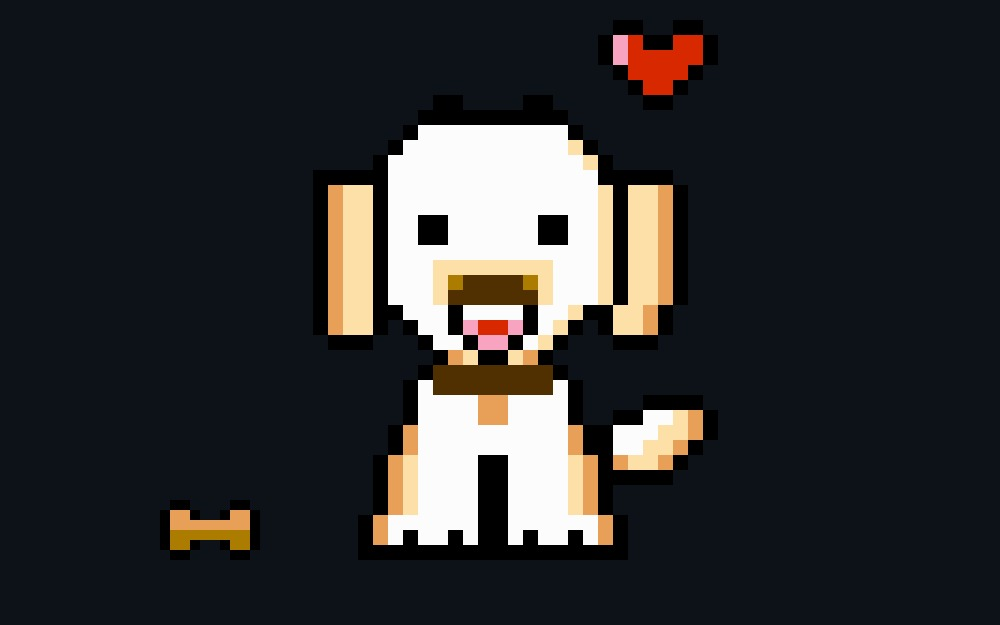
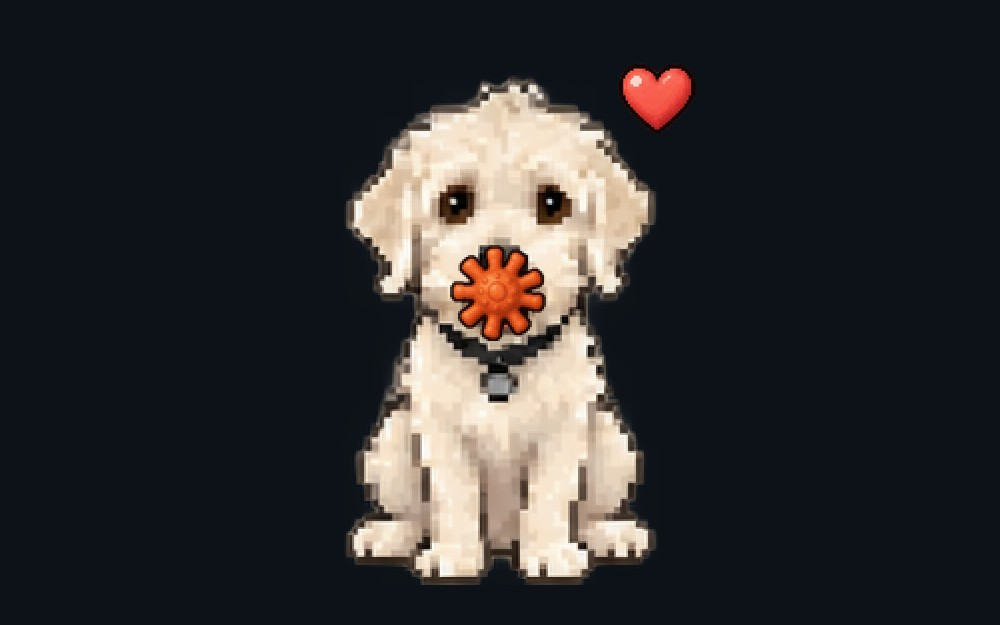
Pikselhund: nytt bilde og det den kan nå
Kortbildet viser den nye tegningen med Claude-leka i munnen, satt sammen
fra appens egne figurer i hele ganger med nærmeste nabo, på samme mørke
bunn som før. Teksten bytter ut NES-spriten og masingen med leka som viser
hvem av Claude og ChatGPT som har mest kvote igjen. Resten er Espens egne
setninger, urørt.

Changed region(s): [[0.31, 0.0304, 0.713, 0.9424], [0.155, 0.8208, 0.248, 0.8816]]

diff --git a/index.html b/index.html
@@ -199,15 +199,15 @@
 
           <li class="card">
             <a class="card__media" href="https://github.com/espenbjork/Pikselhund" target="_blank" rel="noopener" aria-label="Pikselhund på GitHub">
-              <img src="assets/screenshots/pikselhund.jpg" alt="Skjermbilde av Pikselhund" loading="lazy" width="1000" height="625">
+              <img src="assets/screenshots/pikselhund.jpg" alt="Pikselhund sitter med en oransje leke i munnen" loading="lazy" width="1000" height="625">
             </a>
             <div class="card__body">
               <h3 class="card__title">Pikselhund</h3>
               <p class="card__desc">
-                Hunden vår som NES-sprite, sittende på skrivebordet. Logrer,
-                maser med poten og tigger rundt måltidene. Egentlig en test av
-                noe helt annet. Endte som en enda mindre nyttig tamagotchi, og
-                gir meg overraskende mye glede.
+                Hunden vår som pikselfigur på skrivebordet. Holder leka til
+                den av Claude og ChatGPT som har mest kvote igjen. Egentlig en
+                test av noe helt annet. Endte som en enda mindre nyttig
+                tamagotchi, og gir meg overraskende mye glede.
               </p>
               <div class="card__actions">
                 <span class="tag">Swift · macOS</span>
